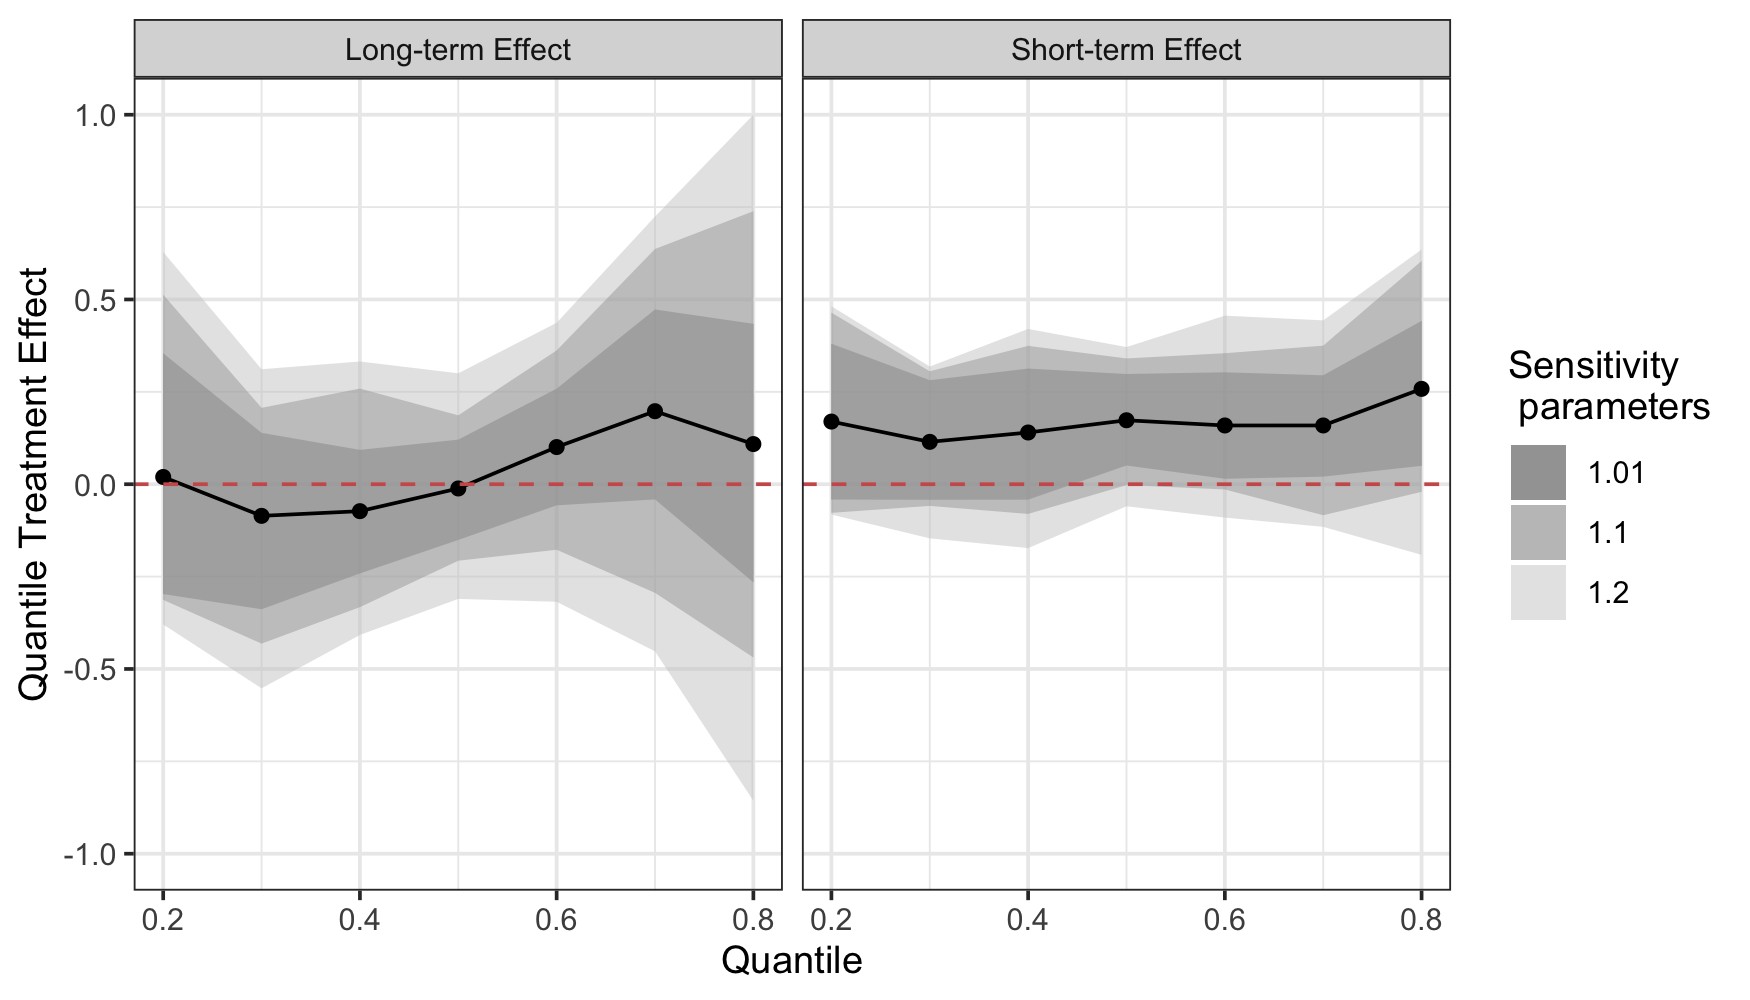
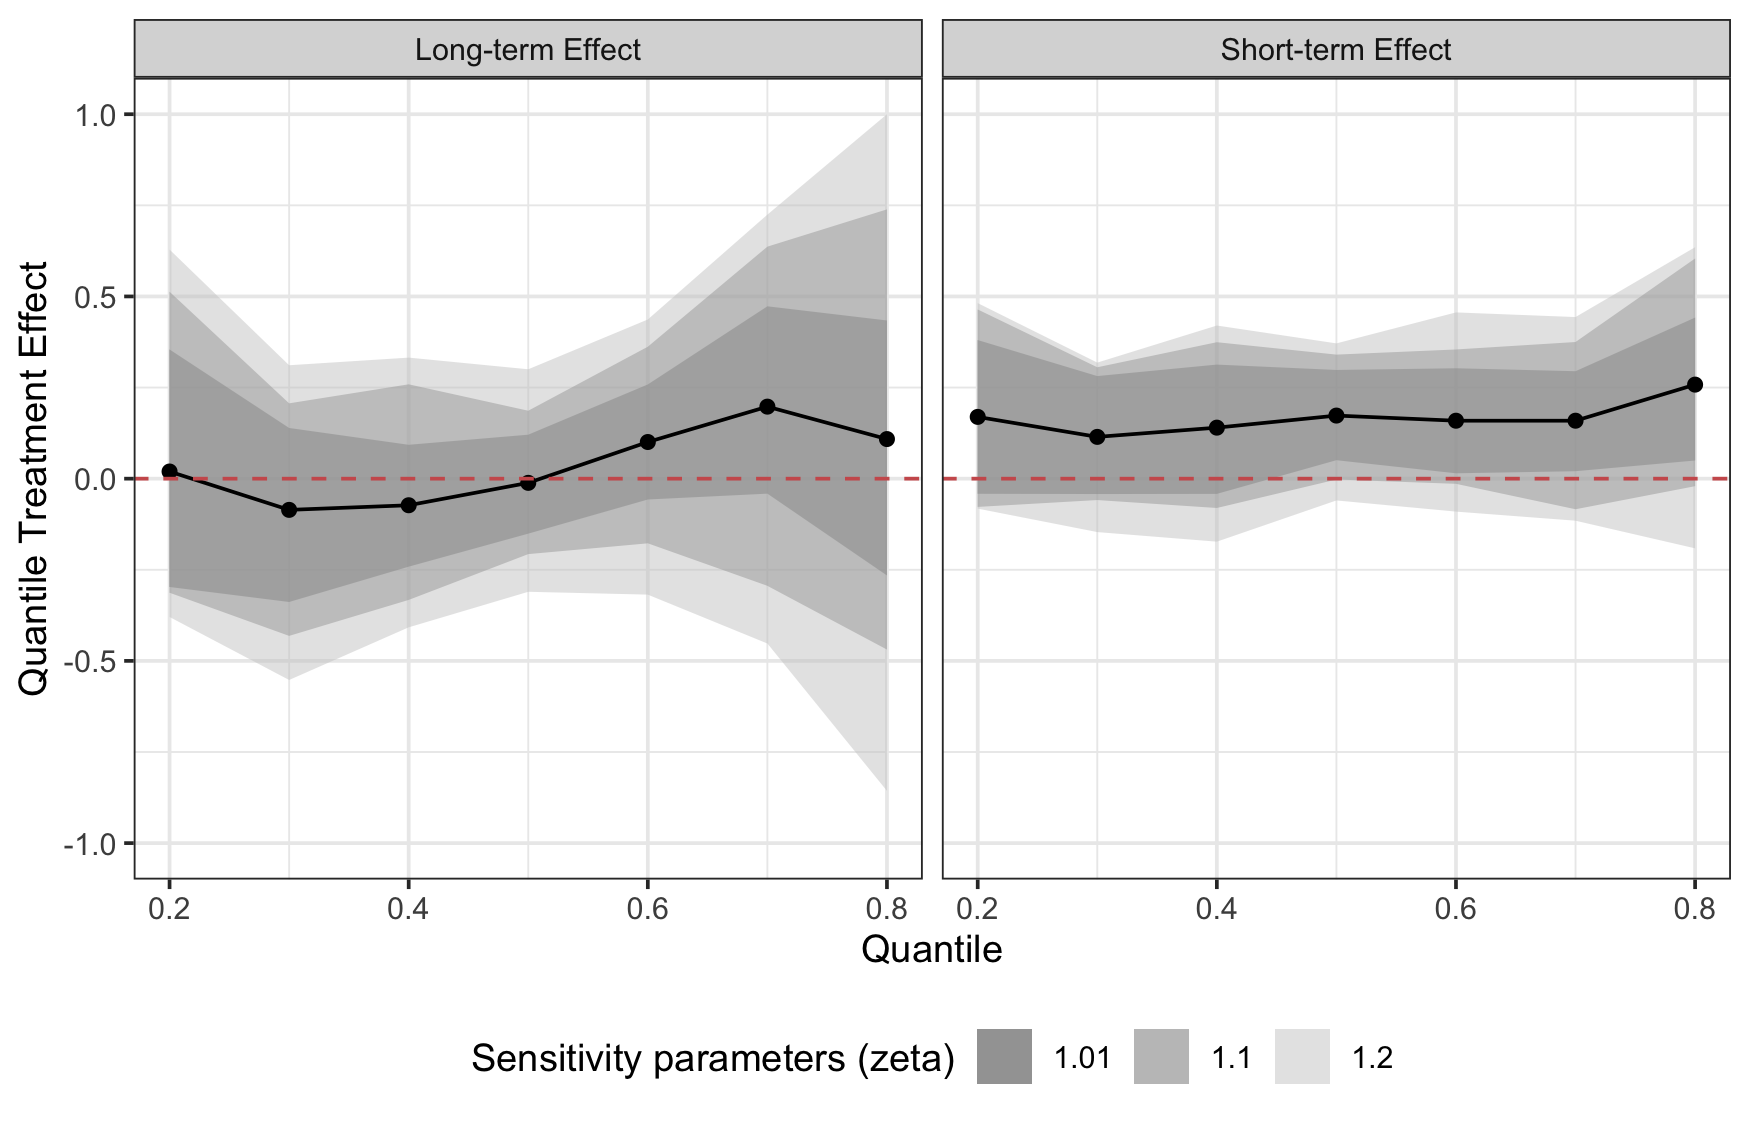
Update figure in the readme

diff --git a/README.md b/README.md
@@ -132,7 +132,8 @@ ggplot(bd_qte %>% filter(zeta != 1), aes(x = probs)) +
   scale_fill_manual(values = c("gray20", "gray50", "gray80")) + 
   ylim(-1, 1) + 
   theme_bw() +
-  labs(y = "Quantile Treatment Effect", x = "Quantile", fill = 'Sensitivity \n parameters') + 
+  theme(legend.position = 'bottom') + 
+  labs(y = "Quantile Treatment Effect", x = "Quantile", fill = 'Sensitivity parameters (zeta)') + 
   facet_wrap(~effects)
 ```
 
